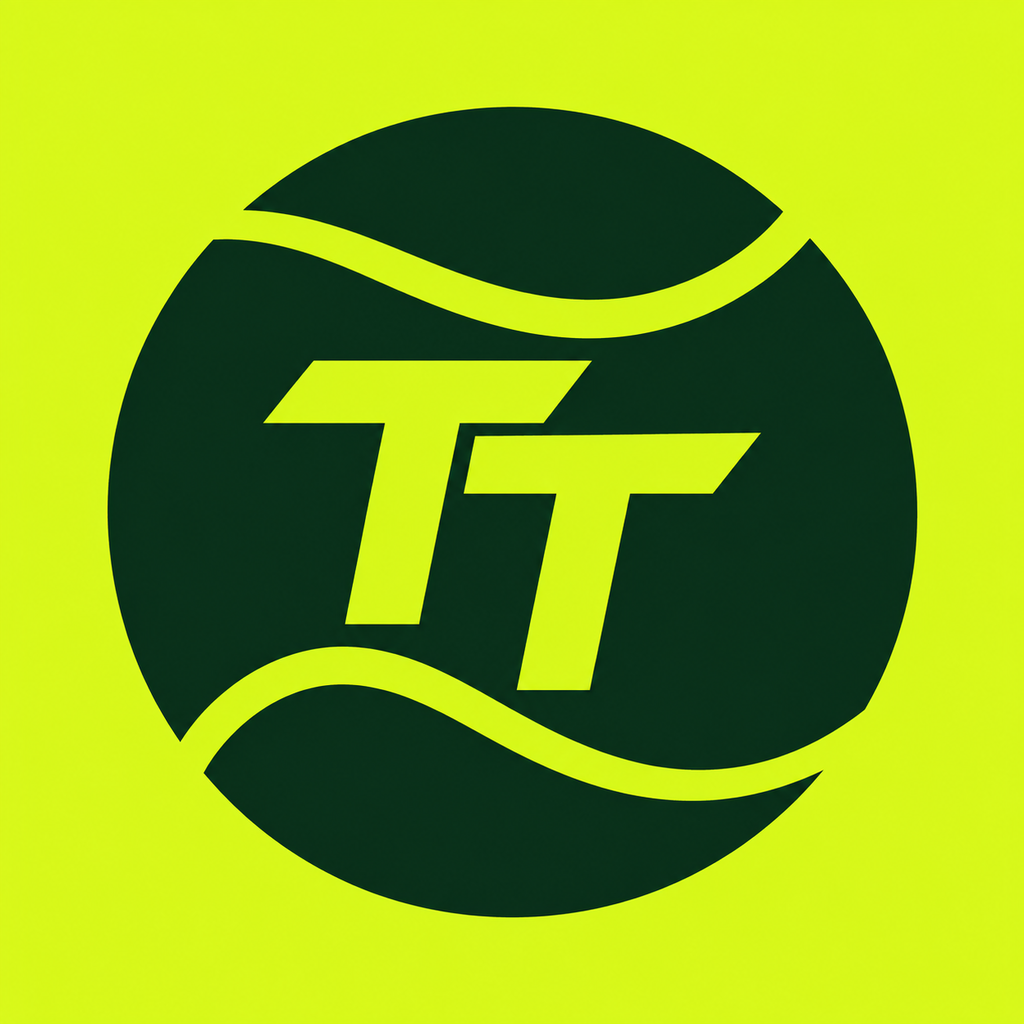
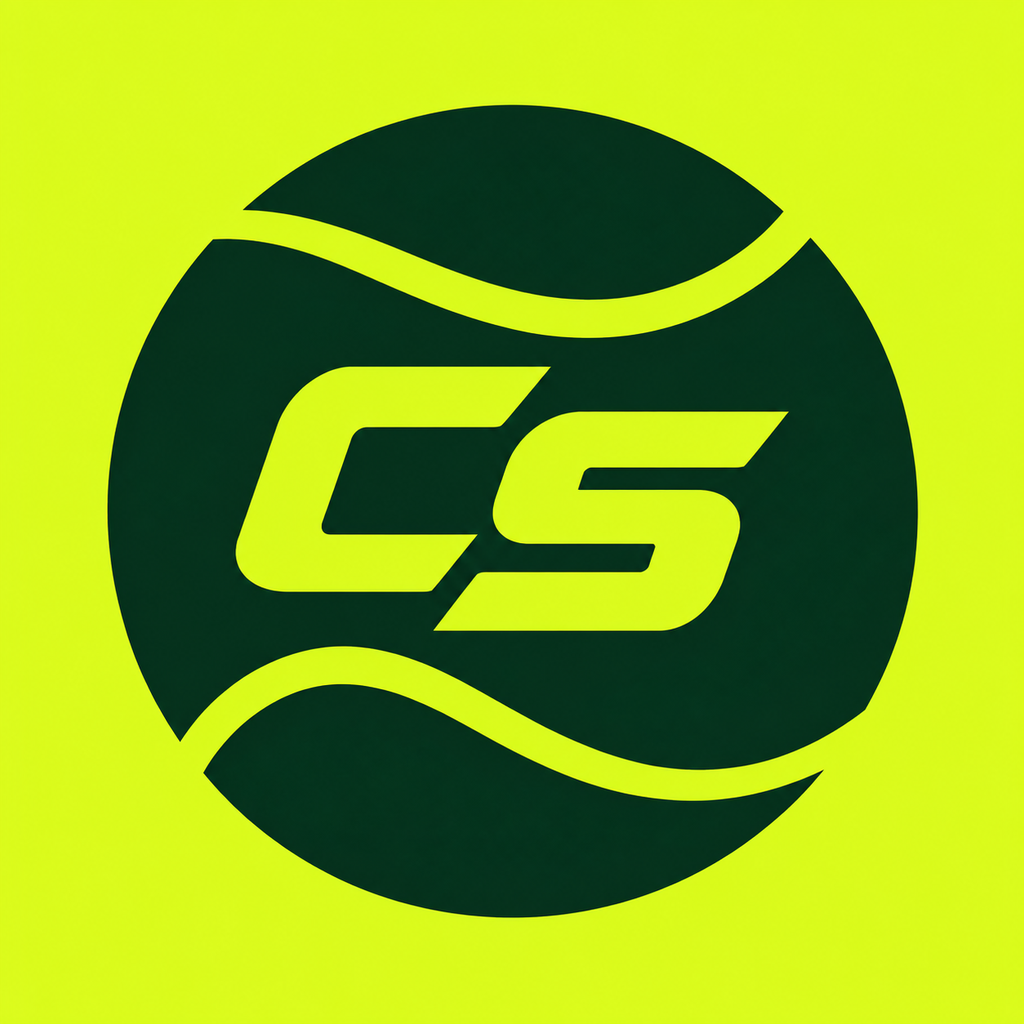
Complete Court Story branding and full VoiceOver app names for build 32 [skip ci]

Changed region(s): [[0.2188, 0.3438, 0.7812, 0.6875], [0.4375, 0.0938, 0.4688, 0.125]]

diff --git a/docs/privacy.html b/docs/privacy.html
@@ -3,8 +3,8 @@
 <head>
   <meta charset="utf-8">
   <meta name="viewport" content="width=device-width, initial-scale=1">
-  <meta name="description" content="Privacy policy for Tennis Tracker by Inclusophy on iPhone and Apple Watch.">
-  <title>Tennis Tracker Privacy Policy | Inclusophy</title>
+  <meta name="description" content="Privacy policy for Court Story on iPhone and Apple Watch.">
+  <title>Court Story Privacy Policy</title>
   <style>
     :root { color-scheme: light; font-family: system-ui, sans-serif; color: #10291e; background: #f7faf7; }
     * { box-sizing: border-box; }
@@ -26,30 +26,30 @@
   <header>
     <div class="content brand">
       <img src="app-icon.png" width="72" height="72" alt="">
-      <div><h1>Tennis Tracker</h1><span>By Inclusophy</span></div>
+      <div><h1>Court Story</h1><span>Your tennis, your progress</span></div>
     </div>
   </header>
   <main class="content" id="policy">
     <h2>Privacy Policy</h2>
     <p>Updated <time datetime="2026-09-11">11 September 2026</time></p>
-    <p>Your tennis library belongs to you. Tennis Tracker has no app account, shared community database, advertising or automatic analytics service.</p>
+    <p>Your tennis library belongs to you. Court Story has no app account, shared community database, advertising or automatic analytics service.</p>
     <h3>Your tennis library</h3>
-    <p>Tennis Tracker, developed by Inclusophy, stores the profiles, people, places, activities, notes, goals and preferences you enter on your device. These records power your history, statistics and achievements. Only enter information about other people that you are entitled to keep. New testers receive an empty library, never another player's records.</p>
+    <p>Court Story stores the profiles, people, places, activities, notes, goals and preferences you enter on your device. These records power your history, statistics and achievements. Only enter information about other people that you are entitled to keep. New testers receive an empty library, never another player's records.</p>
     <h3>Your paired Apple Watch</h3>
-    <p>Your iPhone and paired Apple Watch exchange your tennis records and settings using Apple's WatchConnectivity service. The Watch shares a local summary with its complication extension. This is not a public feed or a server operated by Inclusophy. Lock-screen notifications and watch-face complications can display activity details; you control their visibility in Apple's settings.</p>
+    <p>Your iPhone and paired Apple Watch exchange your tennis records and settings using Apple's WatchConnectivity service. The Watch shares a local summary with its complication extension. This is not a public feed or a developer-operated server. Lock-screen notifications and watch-face complications can display activity details; you control their visibility in Apple's settings.</p>
     <h3>Optional Apple Health access</h3>
-    <p>When you choose a Health workout on Apple Watch, Tennis Tracker requests permission to read and write tennis workouts and supported measurements: heart rate, active energy, walking or running distance, and steps. It uses these to track your workout and saves its duration, available measurements and Health workout identifier with the session. That summary can sync to your paired iPhone. Basic tennis logging works without Health access. Health information is not sold or used for advertising. You can change access in Apple's Health and privacy settings.</p>
+    <p>When you choose a Health workout on Apple Watch, Court Story requests permission to read and write tennis workouts and supported measurements: heart rate, active energy, walking or running distance, and steps. It uses these to track your workout and saves its duration, available measurements and Health workout identifier with the session. That summary can sync to your paired iPhone. Basic tennis logging works without Health access. Health information is not sold or used for advertising. You can change access in Apple's Health and privacy settings.</p>
     <h3>Calendar and reminders</h3>
     <p>Calendar access is optional. When you ask to add an activity, its details are sent to your selected Apple Calendar. Calendar sharing and cloud synchronisation follow your Apple account and calendar settings. Local reminders use the tennis dates and preferences you choose; notification delivery is managed by Apple.</p>
     <h3>Private backups and sharing</h3>
-    <p>Export Private Backup creates a readable JSON file containing your tennis library, including saved workout summaries, but not the Apple Health database. The file is not password-encrypted by Tennis Tracker. You choose its destination and who can access it. Files saved to a cloud provider follow that provider's privacy settings. Keep exports private and delete copies you no longer need. Device backups are managed separately by your operating system.</p>
+    <p>Export Private Backup creates a readable JSON file containing your tennis library, including saved workout summaries, but not the Apple Health database. The file is not password-encrypted by Court Story. You choose its destination and who can access it. Files saved to a cloud provider follow that provider's privacy settings. Keep exports private and delete copies you no longer need. Device backups are managed separately by your operating system.</p>
     <h3>Keeping and deleting records</h3>
     <p>Records remain in your library until you edit or delete them. Changes sync to your paired Watch. Deletion identifiers are retained to prevent old synced records from returning. Deleting a tennis record does not delete a previously saved Apple Health workout, Calendar event or exported backup; manage those separately in Health, Calendar or Files. Removing the app can remove its local library, so export any records you want to keep first.</p>
     <h3>TestFlight and feedback</h3>
-    <p>Apple processes TestFlight installation, usage, crash and feedback information under its <a href="https://www.apple.com/legal/privacy/data/en/test-flight/">TestFlight privacy terms</a>. Inclusophy can receive the beta feedback and diagnostic information Apple makes available to developers. Your whole tennis library is not automatically sent as feedback. Check screenshots and attachments for personal or Health details before sending them.</p>
+    <p>Apple processes TestFlight installation, usage, crash and feedback information under its <a href="https://www.apple.com/legal/privacy/data/en/test-flight/">TestFlight privacy terms</a>. The developer can receive the beta feedback and diagnostic information Apple makes available to developers. Your whole tennis library is not automatically sent as feedback. Check screenshots and attachments for personal or Health details before sending them.</p>
     <h3>Privacy questions</h3>
-    <p>For this beta, contact Inclusophy using Send Beta Feedback on Tennis Tracker's page in TestFlight. Ask privacy questions without attaching your library or Health information. Changes to this policy will be dated and published in the app and on the policy website. The website is hosted by GitHub Pages; GitHub processes website requests under its own <a href="https://docs.github.com/en/site-policy/privacy-policies/github-general-privacy-statement">privacy statement</a>.</p>
+    <p>For this beta, contact the developer using Send Beta Feedback on Court Story's page in TestFlight. Ask privacy questions without attaching your library or Health information. Changes to this policy will be dated and published in the app and on the policy website. The website is hosted by GitHub Pages; GitHub processes website requests under its own <a href="https://docs.github.com/en/site-policy/privacy-policies/github-general-privacy-statement">privacy statement</a>.</p>
   </main>
-  <footer><div class="content">Tennis Tracker for iPhone and Apple Watch. This policy is also available offline in the app.</div></footer>
+  <footer><div class="content">Court Story for iPhone and Apple Watch. This policy is also available offline in the app.</div></footer>
 </body>
 </html>

diff --git a/TennisTrackerShared/TennisPrivacyPolicy.swift b/TennisTrackerShared/TennisPrivacyPolicy.swift
@@ -3,7 +3,7 @@ import SwiftUI
 enum TennisPrivacyPolicy {
     static let updated = "11 September 2026"
     static let website = URL(string: "https://sidneytambin-maker.github.io/tennis-tracker-ios/privacy.html")!
-    static let summary = "Your tennis library belongs to you. Tennis Tracker has no app account, shared community database, advertising or automatic analytics service."
+    static let summary = "Your tennis library belongs to you. Court Story has no app account, shared community database, advertising or automatic analytics service."
 
     struct Topic: Identifiable {
         let id: String
@@ -12,14 +12,14 @@ enum TennisPrivacyPolicy {
     }
 
     static let topics: [Topic] = [
-        Topic(id: "library", title: "Your tennis library", text: "Tennis Tracker, developed by Inclusophy, stores the profiles, people, places, activities, notes, goals and preferences you enter on your device. These records power your history, statistics and achievements. Only enter information about other people that you are entitled to keep. New testers receive an empty library, never another player's records."),
-        Topic(id: "watch", title: "Your paired Apple Watch", text: "Your iPhone and paired Apple Watch exchange your tennis records and settings using Apple's WatchConnectivity service. The Watch shares a local summary with its complication extension. This is not a public feed or a server operated by Inclusophy. Lock-screen notifications and watch-face complications can display activity details; you control their visibility in Apple's settings."),
-        Topic(id: "health", title: "Optional Apple Health access", text: "When you choose a Health workout on Apple Watch, Tennis Tracker requests permission to read and write tennis workouts and supported measurements: heart rate, active energy, walking or running distance, and steps. It uses these to track your workout and saves its duration, available measurements and Health workout identifier with the session. That summary can sync to your paired iPhone. Basic tennis logging works without Health access. Health information is not sold or used for advertising. You can change access in Apple's Health and privacy settings."),
+        Topic(id: "library", title: "Your tennis library", text: "Court Story stores the profiles, people, places, activities, notes, goals and preferences you enter on your device. These records power your history, statistics and achievements. Only enter information about other people that you are entitled to keep. New testers receive an empty library, never another player's records."),
+        Topic(id: "watch", title: "Your paired Apple Watch", text: "Your iPhone and paired Apple Watch exchange your tennis records and settings using Apple's WatchConnectivity service. The Watch shares a local summary with its complication extension. This is not a public feed or a developer-operated server. Lock-screen notifications and watch-face complications can display activity details; you control their visibility in Apple's settings."),
+        Topic(id: "health", title: "Optional Apple Health access", text: "When you choose a Health workout on Apple Watch, Court Story requests permission to read and write tennis workouts and supported measurements: heart rate, active energy, walking or running distance, and steps. It uses these to track your workout and saves its duration, available measurements and Health workout identifier with the session. That summary can sync to your paired iPhone. Basic tennis logging works without Health access. Health information is not sold or used for advertising. You can change access in Apple's Health and privacy settings."),
         Topic(id: "calendar", title: "Calendar and reminders", text: "Calendar access is optional. When you ask to add an activity, its details are sent to your selected Apple Calendar. Calendar sharing and cloud synchronisation follow your Apple account and calendar settings. Local reminders use the tennis dates and preferences you choose; notification delivery is managed by Apple."),
-        Topic(id: "backup", title: "Private backups and sharing", text: "Export Private Backup creates a readable JSON file containing your tennis library, including saved workout summaries, but not the Apple Health database. The file is not password-encrypted by Tennis Tracker. You choose its destination and who can access it. Files saved to a cloud provider follow that provider's privacy settings. Keep exports private and delete copies you no longer need. Device backups are managed separately by your operating system."),
+        Topic(id: "backup", title: "Private backups and sharing", text: "Export Private Backup creates a readable JSON file containing your tennis library, including saved workout summaries, but not the Apple Health database. The file is not password-encrypted by Court Story. You choose its destination and who can access it. Files saved to a cloud provider follow that provider's privacy settings. Keep exports private and delete copies you no longer need. Device backups are managed separately by your operating system."),
         Topic(id: "delete", title: "Keeping and deleting records", text: "Records remain in your library until you edit or delete them. Changes sync to your paired Watch. Deletion identifiers are retained to prevent old synced records from returning. Deleting a tennis record does not delete a previously saved Apple Health workout, Calendar event or exported backup; manage those separately in Health, Calendar or Files. Removing the app can remove its local library, so export any records you want to keep first."),
-        Topic(id: "beta", title: "TestFlight and feedback", text: "Apple processes TestFlight installation, usage, crash and feedback information under its TestFlight privacy terms. Inclusophy can receive the beta feedback and diagnostic information Apple makes available to developers. Your whole tennis library is not automatically sent as feedback. Check screenshots and attachments for personal or Health details before sending them."),
-        Topic(id: "contact", title: "Privacy questions", text: "For this beta, contact Inclusophy using Send Beta Feedback on Tennis Tracker's page in TestFlight. Ask privacy questions without attaching your library or Health information. Changes to this policy will be dated and published in the app and on the policy website. The website is hosted by GitHub Pages; GitHub processes website requests under its own privacy statement.")
+        Topic(id: "beta", title: "TestFlight and feedback", text: "Apple processes TestFlight installation, usage, crash and feedback information under its TestFlight privacy terms. The developer can receive the beta feedback and diagnostic information Apple makes available to developers. Your whole tennis library is not automatically sent as feedback. Check screenshots and attachments for personal or Health details before sending them."),
+        Topic(id: "contact", title: "Privacy questions", text: "For this beta, contact the developer using Send Beta Feedback on Court Story's page in TestFlight. Ask privacy questions without attaching your library or Health information. Changes to this policy will be dated and published in the app and on the policy website. The website is hosted by GitHub Pages; GitHub processes website requests under its own privacy statement.")
     ]
 }
 

diff --git a/TennisTracker/Intents/TennisTrackerIntents.swift b/TennisTracker/Intents/TennisTrackerIntents.swift
@@ -14,62 +14,62 @@ struct StartLiveScoringIntent: AppIntent {
 
     func perform() async throws -> some IntentResult & ProvidesDialog {
         TennisIntentRoute.set("matches")
-        return .result(dialog: "Opening Tennis Tracker for live scoring.")
+        return .result(dialog: "Opening Court Story for live scoring.")
     }
 }
 
 struct AddMatchIntent: AppIntent {
     static var title: LocalizedStringResource = "Record Match"
-    static var description = IntentDescription("Open Tennis Tracker to add a match.")
+    static var description = IntentDescription("Open Court Story to add a match.")
     static var openAppWhenRun = true
 
     func perform() async throws -> some IntentResult & ProvidesDialog {
         TennisIntentRoute.set("matches")
-        return .result(dialog: "Opening Tennis Tracker to add a match.")
+        return .result(dialog: "Opening Court Story to add a match.")
     }
 }
 
 struct AddTrainingSessionIntent: AppIntent {
     static var title: LocalizedStringResource = "Track Training Session"
-    static var description = IntentDescription("Open Tennis Tracker to add a training session.")
+    static var description = IntentDescription("Open Court Story to add a training session.")
     static var openAppWhenRun = true
 
     func perform() async throws -> some IntentResult & ProvidesDialog {
         TennisIntentRoute.set("training")
-        return .result(dialog: "Opening Tennis Tracker to add training.")
+        return .result(dialog: "Opening Court Story to add training.")
     }
 }
 
 struct AddTournamentIntent: AppIntent {
     static var title: LocalizedStringResource = "Track Tournament"
-    static var description = IntentDescription("Open Tennis Tracker to add a tournament.")
+    static var description = IntentDescription("Open Court Story to add a tournament.")
     static var openAppWhenRun = true
 
     func perform() async throws -> some IntentResult & ProvidesDialog {
         TennisIntentRoute.set("tournaments")
-        return .result(dialog: "Opening Tennis Tracker to add a tournament.")
+        return .result(dialog: "Opening Court Story to add a tournament.")
     }
 }
 
 struct ShowNextTournamentIntent: AppIntent {
     static var title: LocalizedStringResource = "Show Next Tournament"
-    static var description = IntentDescription("Open Tennis Tracker to the tournament area.")
+    static var description = IntentDescription("Open Court Story to the tournament area.")
     static var openAppWhenRun = true
 
     func perform() async throws -> some IntentResult & ProvidesDialog {
         TennisIntentRoute.set("tournaments")
-        return .result(dialog: "Opening Tennis Tracker tournaments.")
+        return .result(dialog: "Opening Court Story tournaments.")
     }
 }
 
 struct ShowRecentRecordIntent: AppIntent {
     static var title: LocalizedStringResource = "Show Recent Result"
-    static var description = IntentDescription("Open Tennis Tracker to recent tennis activity.")
+    static var description = IntentDescription("Open Court Story to recent tennis activity.")
     static var openAppWhenRun = true
 
     func perform() async throws -> some IntentResult & ProvidesDialog {
         TennisIntentRoute.set("dashboard")
-        return .result(dialog: "Opening Tennis Tracker recent activity.")
+        return .result(dialog: "Opening Court Story recent activity.")
     }
 }
 

diff --git a/TennisTracker/Views/OnboardingView.swift b/TennisTracker/Views/OnboardingView.swift
@@ -45,7 +45,7 @@ struct OnboardingView: View {
                 case 5:
                     Section {
                         Text("Apple Watch is optional. Your paired Watch receives only your tennis library. You can track training, finish activities and score matches on your wrist.")
-                        Text("For this beta, install the companion from the Watch app on your iPhone after installing Tennis Tracker through TestFlight.")
+                        Text("For this beta, install the companion from the Watch app on your iPhone after installing Court Story through TestFlight.")
                     }
                 case 6:
                     notificationStep
@@ -103,7 +103,7 @@ struct OnboardingView: View {
 
     private var welcomeStep: some View {
         Section {
-            Text("Tennis Tracker records matches, tournaments, training, and progress. Setup creates your first real player profile. No demo records will be added.")
+            Text("Court Story records matches, tournaments, training, and progress. Setup creates your first real player profile. No demo records will be added.")
             Button("Set up my player profile") {
                 step = 1
                 focusHeading()
@@ -259,7 +259,7 @@ struct OnboardingView: View {
 
     private var title: String {
         switch step {
-        case 0: return "Welcome to Tennis Tracker"
+        case 0: return "Welcome to Court Story"
         case 1: return "Set Up Your Player"
         case 2: return "Choose Tennis Details"
         case 3: return "Choose Preferences"

diff --git a/TennisTrackerWatchApp/WatchRootView.swift b/TennisTrackerWatchApp/WatchRootView.swift
@@ -98,7 +98,7 @@ private struct WatchTodayView: View {
             }
             Button("Cancel", role: .cancel) { trainingToStart = nil }
         } message: {
-            Text("With permission, Tennis Tracker records workout duration, heart rate, active energy and available steps and distance. Training still works without Health access.")
+            Text("With permission, Court Story records workout duration, heart rate, active energy and available steps and distance. Training still works without Health access.")
         }
     }
 }
@@ -148,7 +148,7 @@ struct WatchTrainingSetupView: View {
                 Section("Apple Health") {
                     Toggle("Track Training as Workout", isOn: $useHealth)
                     WatchHealthAccessView(client: store.healthClient)
-                    Text("Tennis Tracker can record workout duration, heart rate, active energy and available steps and distance in Apple Health. Tennis tracking still works if you decline.")
+                    Text("Court Story can record workout duration, heart rate, active energy and available steps and distance in Apple Health. Tennis tracking still works if you decline.")
                 }
             }
             Button("Begin Training Session") {

diff --git a/TennisTracker/Services/IPhoneWatchSyncService.swift b/TennisTracker/Services/IPhoneWatchSyncService.swift
@@ -85,12 +85,12 @@ final class IPhoneWatchSyncService: NSObject, ObservableObject, WCSessionDelegat
             return
         }
         guard session.isWatchAppInstalled else {
-            connectionDescription = "Apple Watch paired. Tennis Tracker is not installed on the Watch."
+            connectionDescription = "Apple Watch paired. Court Story is not installed on the Watch."
             return
         }
         connectionDescription = session.isReachable
-            ? "Apple Watch paired. Tennis Tracker installed. Live connection available."
-            : "Apple Watch paired. Tennis Tracker installed. Live connection not currently reachable. Updates can still be queued for background delivery."
+            ? "Apple Watch paired. Court Story installed. Live connection available."
+            : "Apple Watch paired. Court Story installed. Live connection not currently reachable. Updates can still be queued for background delivery."
     }
 
     private func flushSnapshot() {

diff --git a/TennisTracker/Services/TennisBackup.swift b/TennisTracker/Services/TennisBackup.swift
@@ -5,8 +5,8 @@ enum TennisBackupError: LocalizedError {
 
     var errorDescription: String? {
         switch self {
-        case .invalidFile: return "This is not a complete Tennis Tracker backup. Nothing was imported."
-        case .newerVersion: return "This library needs a newer version of Tennis Tracker. Nothing was changed."
+        case .invalidFile: return "This is not a complete Court Story backup. Nothing was imported."
+        case .newerVersion: return "This library needs a newer version of Court Story. Nothing was changed."
         case .brokenRelationships: return "Some records in this backup refer to missing players, places or activities. Keep the original file for recovery. Nothing was imported."
         case .duplicateIDs: return "This backup contains duplicate record identifiers. Nothing was imported."
         case .activeActivity: return "Finish any tracked activity before creating a migration backup. Nothing was imported."

diff --git a/TennisTracker/Views/PrivateBackupView.swift b/TennisTracker/Views/PrivateBackupView.swift
@@ -63,9 +63,9 @@ struct PrivateBackupView: View {
                 report("Backup checked. Review the contents, then choose Restore My Backup or Cancel.")
             } catch { preview = nil; report(error.localizedDescription) }
         }
-        .fileExporter(isPresented: $exporting, document: document, contentType: .json, defaultFilename: "Tennis-Tracker-Private-Backup") { result in
+        .fileExporter(isPresented: $exporting, document: document, contentType: .json, defaultFilename: "Court-Story-Private-Backup") { result in
             switch result {
-            case .success: report("Your private Tennis Tracker backup has been exported.")
+            case .success: report("Your private Court Story backup has been exported.")
             case .failure(let error): report(error.localizedDescription)
             }
         }

diff --git a/TennisTracker/Views/NotificationSettingsView.swift b/TennisTracker/Views/NotificationSettingsView.swift
@@ -50,7 +50,7 @@ struct NotificationSettingsView: View {
             }
             if !status.isEmpty { Text(status) }
             Section("Sound credits") {
-                Text("Five independent CC0 recordings, edited for Tennis Tracker.")
+                Text("Five independent CC0 recordings, edited for Court Story.")
                 Link("Bounce: Joseph SARDIN / LaSonotheque", destination: URL(string: "https://lasonotheque.org/balle-de-tennis-rebonds-s0584.html")!)
                 Link("Racket strike: jacklilley", destination: URL(string: "https://freesound.org/people/jacklilley/sounds/338122/")!)
                 Link("Racket swoosh: MIKEJONESBONES", destination: URL(string: "https://freesound.org/people/MIKEJONESBONES/sounds/511825/")!)

diff --git a/TennisTracker/Services/TennisCalendarService.swift b/TennisTracker/Services/TennisCalendarService.swift
@@ -32,7 +32,7 @@ enum TennisCalendarMapper {
             : Calendar.current.date(byAdding: .day, value: 1, to: start) ?? start.addingTimeInterval(86400)
         return CalendarEventDraft(
             title: "Tennis: \(match.playerTeam) versus \(match.opponentSummary.fallback("opponent not recorded"))",
-            notes: "Tennis Tracker match. \(TennisSummaryFormatter.match(match, style: .long)) \(match.notes)",
+            notes: "Court Story match. \(TennisSummaryFormatter.match(match, style: .long)) \(match.notes)",
             startDate: start,
             endDate: end,
             location: [match.venue, match.location].filter { !$0.isBlank }.joined(separator: ", "),

diff --git a/TennisTracker/Views/SettingsView.swift b/TennisTracker/Views/SettingsView.swift
@@ -176,7 +176,7 @@ private struct WatchStatusView: View {
     var body: some View {
         VStack(alignment: .leading, spacing: 8) {
             SummaryRow(title: "Apple Watch paired", value: sync.pairedDescription)
-            SummaryRow(title: "Tennis Tracker installed", value: sync.installedDescription)
+            SummaryRow(title: "Court Story installed", value: sync.installedDescription)
             SummaryRow(title: "Live connection", value: sync.liveDescription)
             SummaryRow(title: "Background sync", value: sync.backgroundDescription)
             Text(sync.syncMessage)

diff --git a/TennisTracker/Store/TennisStore.swift b/TennisTracker/Store/TennisStore.swift
@@ -5,7 +5,7 @@ import UIKit
 final class TennisStore: ObservableObject {
     @Published private(set) var data = AppData()
     @Published private(set) var storageError: String?
-    @Published var lastAnnouncement = "Tennis Tracker ready."
+    @Published var lastAnnouncement = "Court Story ready."
     var announcementDelivery: (String) -> Void = { message in
         guard UIAccessibility.isVoiceOverRunning else { return }
         let speech = NSAttributedString(string: message, attributes: [.accessibilitySpeechQueueAnnouncement: true])
